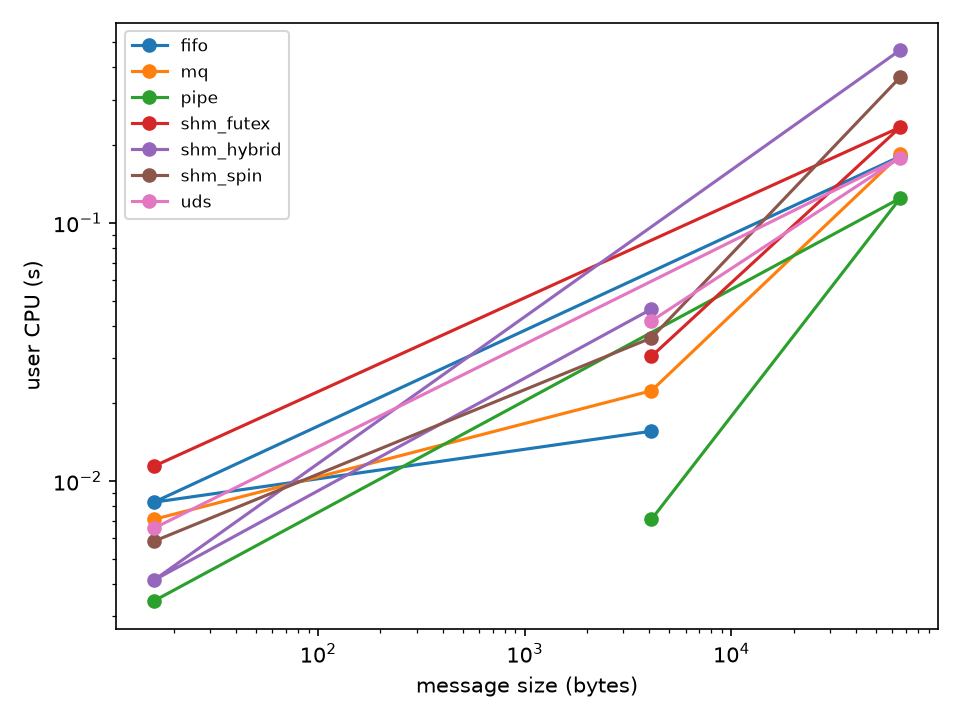
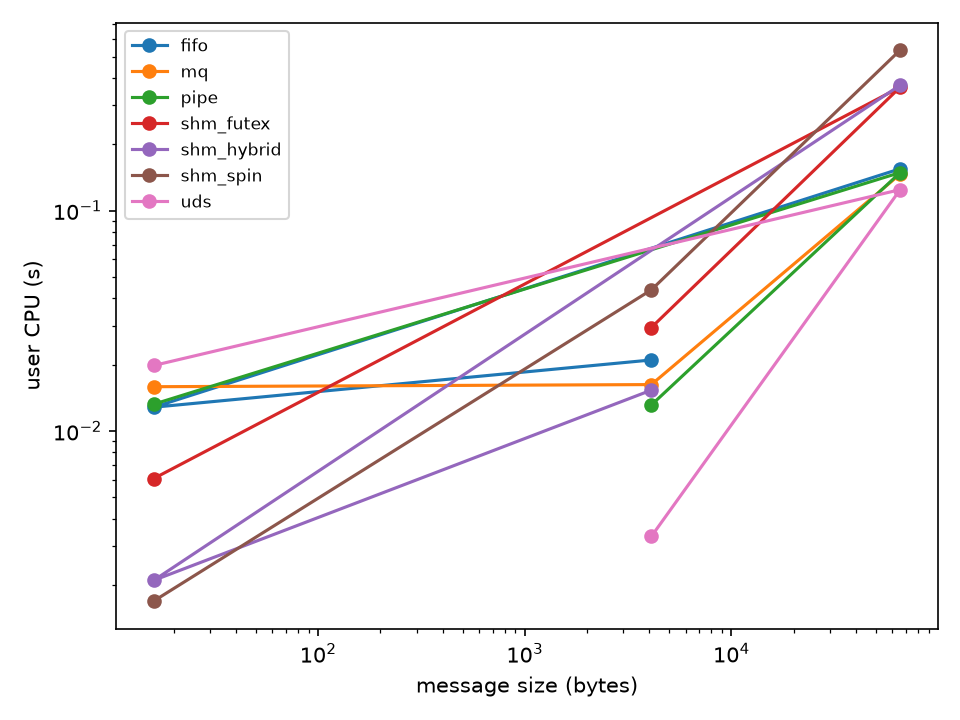
test: refresh quick analysis artifacts

diff --git a/results/summary.md b/results/summary.md
@@ -4,45 +4,45 @@ Generated from the supplied results CSV.
 
 | mech | mode | size_bytes | timestamp | iters | warmup | run_id | chunked | mean_ns | p50_ns | p90_ns | p99_ns | p999_ns | min_ns | max_ns | stddev_ns | msgs_per_s | mb_per_s | wall_s | cpu_user_s | cpu_sys_s | cpu_pct | vol_ctx | invol_ctx | ctx_per_msg |
 |---|---|---|---|---|---|---|---|---|---|---|---|---|---|---|---|---|---|---|---|---|---|---|---|---|
-| fifo | pingpong | 16 | 1791778710.0 | 4000.0 | 400.0 | 6.0 | 0.0 | 69273.4 | 59163.5 | 90067.7 | 179687.0 | 918276.0 | 7114.0 | 2929929.0 | 77204.3 | 13202.9 | 0.20146 | 0.302965 | 0.008279 | 0.255803 | 87.1659 | 8737.0 | 2.0 | 2.18425 |
-| fifo | pingpong | 4096 | 1791778715.0 | 4000.0 | 400.0 | 30.0 | 0.0 | 69712.6 | 60047.5 | 89157.6 | 164506.0 | 1232350.0 | 11503.0 | 2147703.0 | 61463.8 | 12535.8 | 48.968 | 0.319086 | 0.015602 | 0.269546 | 89.3641 | 8748.0 | 0.0 | 2.187 |
-| fifo | pingpong | 65536 | 1791778709.0 | 4000.0 | 400.0 | 3.0 | 0.0 | 149207.0 | 123208.0 | 172150.0 | 709098.0 | 3501800.0 | 67133.0 | 4497324.0 | 212918.0 | 4885.96 | 305.372 | 0.818672 | 0.180914 | 0.592212 | 94.4365 | 8780.0 | 0.0 | 2.195 |
-| fifo | stream | 16 | 1791778711.0 | 40000.0 | 4000.0 | 13.0 | 0.0 | nan | nan | nan | nan | nan | nan | nan | nan | 2284930.0 | 34.8653 | 0.017506 | 0.016667 | 0.017749 | 196.595 | 66.0 | 1.0 | 0.00165 |
-| fifo | stream | 4096 | 1791778713.0 | 13107.0 | 1310.0 | 22.0 | 0.0 | nan | nan | nan | nan | nan | nan | nan | nan | 74981.4 | 292.896 | 0.174803 | 0.055356 | 0.218629 | 156.739 | 3496.0 | 2.0 | 0.266728 |
-| fifo | stream | 65536 | 1791778709.0 | 819.0 | 81.0 | 4.0 | 0.0 | nan | nan | nan | nan | nan | nan | nan | nan | 9474.61 | 592.163 | 0.0864416 | 0.03317 | 0.080426 | 131.414 | 819.0 | 0.0 | 1.0 |
-| mq | pingpong | 16 | 1791778711.0 | 4000.0 | 400.0 | 12.0 | 0.0 | 61637.4 | 53076.0 | 78578.7 | 131709.0 | 653956.0 | 10021.0 | 1840333.0 | 49043.8 | 14952.7 | 0.228161 | 0.26751 | 0.007105 | 0.216601 | 83.6254 | 8734.0 | 1.0 | 2.1835 |
-| mq | pingpong | 4096 | 1791778713.0 | 4000.0 | 400.0 | 21.0 | 0.0 | 69544.9 | 62049.0 | 88039.0 | 150218.0 | 556245.0 | 32764.0 | 4134211.0 | 73123.1 | 12758.4 | 49.8376 | 0.313518 | 0.022376 | 0.250415 | 87.0096 | 8711.0 | 1.0 | 2.17775 |
-| mq | pingpong | 65536 | 1791778716.0 | 4000.0 | 400.0 | 34.0 | 1.0 | 96031.4 | 85472.5 | 126975.0 | 209627.0 | 554458.0 | 61947.0 | 1185169.0 | 40025.3 | 6908.09 | 431.756 | 0.579031 | 0.184167 | 0.462172 | 111.624 | 9003.0 | 1.0 | 2.25075 |
-| mq | stream | 16 | 1791778711.0 | 40000.0 | 4000.0 | 11.0 | 0.0 | nan | nan | nan | nan | nan | nan | nan | nan | 621528.0 | 9.48377 | 0.0643575 | 0.0 | 0.101488 | 157.694 | 1000.0 | 0.0 | 0.025 |
-| mq | stream | 4096 | 1791778707.0 | 13107.0 | 1310.0 | 2.0 | 0.0 | nan | nan | nan | nan | nan | nan | nan | nan | 147408.0 | 575.812 | 0.0889165 | 0.025624 | 0.102817 | 144.451 | 3645.0 | 0.0 | 0.278096 |
-| mq | stream | 65536 | 1791778715.0 | 819.0 | 81.0 | 29.0 | 1.0 | nan | nan | nan | nan | nan | nan | nan | nan | 8333.66 | 520.854 | 0.0982761 | 0.038189 | 0.086715 | 127.095 | 1090.0 | 1.0 | 1.33089 |
-| pipe | pingpong | 16 | 1791778717.0 | 4000.0 | 400.0 | 41.0 | 0.0 | 52934.9 | 47865.0 | 67608.4 | 104503.0 | 296013.0 | 8939.0 | 966716.0 | 22622.7 | 17237.6 | 0.263024 | 0.232051 | 0.003431 | 0.196773 | 86.2757 | 8765.0 | 3.0 | 2.19125 |
-| pipe | pingpong | 4096 | 1791778710.0 | 4000.0 | 400.0 | 9.0 | 0.0 | 62384.0 | 51240.0 | 79011.4 | 155030.0 | 1115890.0 | 26776.0 | 2331702.0 | 68321.0 | 14276.9 | 55.769 | 0.280173 | 0.007101 | 0.236849 | 87.0711 | 8761.0 | 0.0 | 2.19025 |
-| pipe | pingpong | 65536 | 1791778717.0 | 4000.0 | 400.0 | 38.0 | 0.0 | 93915.7 | 85236.5 | 118967.0 | 187091.0 | 564077.0 | 55700.0 | 1404729.0 | 41172.2 | 7202.33 | 450.146 | 0.555376 | 0.124592 | 0.394096 | 93.394 | 8786.0 | 0.0 | 2.1965 |
-| pipe | stream | 16 | 1791778717.0 | 40000.0 | 4000.0 | 40.0 | 0.0 | nan | nan | nan | nan | nan | nan | nan | nan | 2799800.0 | 42.7215 | 0.0142867 | 0.009588 | 0.019306 | 202.244 | 2.0 | 0.0 | 5e-05 |
-| pipe | stream | 4096 | 1791778716.0 | 13107.0 | 1310.0 | 35.0 | 0.0 | nan | nan | nan | nan | nan | nan | nan | nan | 205007.0 | 800.81 | 0.0639343 | 0.021437 | 0.07217 | 146.411 | 3375.0 | 1.0 | 0.257496 |
-| pipe | stream | 65536 | 1791778715.0 | 819.0 | 81.0 | 31.0 | 0.0 | nan | nan | nan | nan | nan | nan | nan | nan | 10241.8 | 640.113 | 0.0799664 | 0.040139 | 0.063296 | 129.348 | 796.0 | 0.0 | 0.971917 |
-| shm_futex | pingpong | 16 | 1791778710.0 | 4000.0 | 400.0 | 7.0 | 0.0 | 58804.6 | 51014.5 | 78794.9 | 126575.0 | 247448.0 | 625.0 | 1747975.0 | 32957.5 | 15494.4 | 0.236425 | 0.258158 | 0.011412 | 0.208284 | 85.1013 | 8693.0 | 1.0 | 2.17325 |
-| shm_futex | pingpong | 4096 | 1791778713.0 | 4000.0 | 400.0 | 20.0 | 0.0 | 59224.5 | 51970.5 | 77111.5 | 119976.0 | 310842.0 | 6912.0 | 1159785.0 | 28938.1 | 14849.5 | 58.0058 | 0.26937 | 0.030405 | 0.202528 | 86.4733 | 8711.0 | 1.0 | 2.17775 |
-| shm_futex | pingpong | 65536 | 1791778712.0 | 4000.0 | 400.0 | 17.0 | 0.0 | 88107.4 | 77001.0 | 114108.0 | 205317.0 | 1355040.0 | 41501.0 | 2563255.0 | 76810.0 | 7634.12 | 477.133 | 0.523963 | 0.234706 | 0.245225 | 91.5963 | 8737.0 | 0.0 | 2.18425 |
-| shm_futex | stream | 16 | 1791778716.0 | 40000.0 | 4000.0 | 36.0 | 0.0 | nan | nan | nan | nan | nan | nan | nan | nan | 2631840.0 | 40.1587 | 0.0151985 | 0.016839 | 0.00713 | 157.706 | 84.0 | 0.0 | 0.0021 |
-| shm_futex | stream | 4096 | 1791778712.0 | 13107.0 | 1310.0 | 18.0 | 0.0 | nan | nan | nan | nan | nan | nan | nan | nan | 180212.0 | 703.952 | 0.0727311 | 0.032367 | 0.066402 | 135.8 | 4112.0 | 0.0 | 0.313725 |
-| shm_futex | stream | 65536 | 1791778716.0 | 819.0 | 81.0 | 37.0 | 0.0 | nan | nan | nan | nan | nan | nan | nan | nan | 16560.6 | 1035.04 | 0.0494547 | 0.028289 | 0.030236 | 118.341 | 849.0 | 0.0 | 1.03663 |
-| shm_hybrid | pingpong | 16 | 1791778710.0 | 4000.0 | 400.0 | 8.0 | 0.0 | 418.599 | 374.0 | 423.0 | 473.0 | 7555.91 | 291.0 | 90361.0 | 1565.34 | 1955560.0 | 29.8395 | 0.00204545 | 0.004127 | 0.0 | 201.765 | 0.0 | 1.0 | 0.0 |
-| shm_hybrid | pingpong | 4096 | 1791778715.0 | 4000.0 | 400.0 | 26.0 | 0.0 | 2593.11 | 2084.0 | 2253.0 | 7625.52 | 68815.2 | 423.0 | 617402.0 | 11092.1 | 173294.0 | 676.931 | 0.0230821 | 0.046337 | 0.0 | 200.748 | 2.0 | 1.0 | 0.0005 |
-| shm_hybrid | pingpong | 65536 | 1791778709.0 | 4000.0 | 400.0 | 5.0 | 0.0 | 24616.5 | 18678.5 | 21299.6 | 203006.0 | 907342.0 | 7361.0 | 1843683.0 | 72809.1 | 16241.0 | 1015.06 | 0.24629 | 0.467222 | 0.008039 | 192.968 | 73.0 | 2.0 | 0.01825 |
-| shm_hybrid | stream | 16 | 1791778716.0 | 40000.0 | 4000.0 | 32.0 | 0.0 | nan | nan | nan | nan | nan | nan | nan | nan | 4704550.0 | 71.7857 | 0.00850241 | 0.016156 | 0.001204 | 204.177 | 1.0 | 0.0 | 2.5e-05 |
-| shm_hybrid | stream | 4096 | 1791778717.0 | 13107.0 | 1310.0 | 39.0 | 0.0 | nan | nan | nan | nan | nan | nan | nan | nan | 541013.0 | 2113.33 | 0.0242268 | 0.044933 | 0.004521 | 204.13 | 1.0 | 0.0 | 7.62951e-05 |
-| shm_hybrid | stream | 65536 | 1791778711.0 | 819.0 | 81.0 | 10.0 | 0.0 | nan | nan | nan | nan | nan | nan | nan | nan | 31941.0 | 1996.31 | 0.025641 | 0.05093 | 0.001579 | 204.785 | 1.0 | 3.0 | 0.001221 |
-| shm_spin | pingpong | 16 | 1791778707.0 | 4000.0 | 400.0 | 1.0 | 0.0 | 605.899 | 562.0 | 644.0 | 816.04 | 16439.0 | 369.0 | 36134.0 | 911.578 | 1400120.0 | 21.3641 | 0.0028569 | 0.005843 | 0.0 | 204.523 | 0.0 | 0.0 | 0.0 |
-| shm_spin | pingpong | 4096 | 1791778716.0 | 4000.0 | 400.0 | 33.0 | 0.0 | 1553.55 | 998.5 | 2232.1 | 3300.38 | 57311.7 | 403.0 | 123833.0 | 3820.64 | 224603.0 | 877.357 | 0.0178092 | 0.035851 | 0.000526 | 204.26 | 0.0 | 0.0 | 0.0 |
-| shm_spin | pingpong | 65536 | 1791778718.0 | 4000.0 | 400.0 | 42.0 | 0.0 | 17611.4 | 16731.0 | 18748.0 | 40121.4 | 219402.0 | 6456.0 | 415708.0 | 13344.8 | 22158.8 | 1384.93 | 0.180515 | 0.366702 | 0.00186 | 204.173 | 0.0 | 3.0 | 0.0 |
-| shm_spin | stream | 16 | 1791778714.0 | 40000.0 | 4000.0 | 24.0 | 0.0 | nan | nan | nan | nan | nan | nan | nan | nan | 5882650.0 | 89.7621 | 0.00679966 | 0.011644 | 0.002183 | 203.348 | 1.0 | 0.0 | 2.5e-05 |
-| shm_spin | stream | 4096 | 1791778715.0 | 13107.0 | 1310.0 | 28.0 | 0.0 | nan | nan | nan | nan | nan | nan | nan | nan | 288648.0 | 1127.53 | 0.0454083 | 0.092213 | 0.0 | 203.075 | 1.0 | 1.0 | 7.62951e-05 |
-| shm_spin | stream | 65536 | 1791778715.0 | 819.0 | 81.0 | 27.0 | 0.0 | nan | nan | nan | nan | nan | nan | nan | nan | 10868.7 | 679.295 | 0.0753539 | 0.153244 | 0.000792 | 204.417 | 1.0 | 0.0 | 0.001221 |
-| uds | pingpong | 16 | 1791778711.0 | 4000.0 | 400.0 | 14.0 | 0.0 | 50980.4 | 48466.0 | 71241.4 | 153654.0 | 1136090.0 | 7570.0 | 4697082.0 | 95047.3 | 17841.5 | 0.272239 | 0.224197 | 0.006561 | 0.230085 | 105.553 | 9316.0 | 0.0 | 2.329 |
-| uds | pingpong | 4096 | 1791778715.0 | 4000.0 | 400.0 | 25.0 | 0.0 | 58082.7 | 50232.5 | 89722.2 | 191638.0 | 859022.0 | 8883.0 | 3596441.0 | 76231.9 | 15035.9 | 58.734 | 0.26603 | 0.041696 | 0.241626 | 106.5 | 11424.0 | 0.0 | 2.856 |
-| uds | pingpong | 65536 | 1791778714.0 | 4000.0 | 400.0 | 23.0 | 0.0 | 179790.0 | 129648.0 | 200569.0 | 1143220.0 | 6078270.0 | 63894.0 | 14549860.0 | 448816.0 | 4241.95 | 265.122 | 0.942962 | 0.178839 | 0.822732 | 106.215 | 17897.0 | 0.0 | 4.47425 |
-| uds | stream | 16 | 1791778711.0 | 40000.0 | 4000.0 | 16.0 | 0.0 | nan | nan | nan | nan | nan | nan | nan | nan | 684864.0 | 10.4502 | 0.0584058 | 0.013086 | 0.102737 | 198.308 | 112.0 | 0.0 | 0.0028 |
-| uds | stream | 4096 | 1791778711.0 | 13107.0 | 1310.0 | 15.0 | 0.0 | nan | nan | nan | nan | nan | nan | nan | nan | 158850.0 | 620.508 | 0.0825118 | 0.038284 | 0.092304 | 158.266 | 2944.0 | 0.0 | 0.224613 |
-| uds | stream | 65536 | 1791778712.0 | 819.0 | 81.0 | 19.0 | 0.0 | nan | nan | nan | nan | nan | nan | nan | nan | 12473.1 | 779.571 | 0.0656611 | 0.021858 | 0.061635 | 127.158 | 870.0 | 0.0 | 1.06227 |
+| fifo | pingpong | 16 | 1791779729.0 | 4000.0 | 400.0 | 6.0 | 0.0 | 58527.6 | 53923.0 | 73275.3 | 113007.0 | 234987.0 | 8347.0 | 329975.0 | 15727.1 | 15542.8 | 0.237165 | 0.257354 | 0.012817 | 0.210484 | 86.7681 | 8756.0 | 0.0 | 2.189 |
+| fifo | pingpong | 4096 | 1791779748.0 | 4000.0 | 400.0 | 30.0 | 0.0 | 108501.0 | 82824.0 | 124556.0 | 567780.0 | 2632180.0 | 11359.0 | 6983000.0 | 195739.0 | 8149.22 | 31.8329 | 0.490845 | 0.020997 | 0.411727 | 88.159 | 8723.0 | 1.0 | 2.18075 |
+| fifo | pingpong | 65536 | 1791779728.0 | 4000.0 | 400.0 | 3.0 | 0.0 | 96052.1 | 87858.5 | 122169.0 | 174006.0 | 258855.0 | 68725.0 | 337460.0 | 20850.2 | 7368.22 | 460.514 | 0.542872 | 0.154752 | 0.356058 | 94.094 | 8786.0 | 1.0 | 2.1965 |
+| fifo | stream | 16 | 1791779735.0 | 40000.0 | 4000.0 | 13.0 | 0.0 | nan | nan | nan | nan | nan | nan | nan | nan | 1232730.0 | 18.8099 | 0.0324484 | 0.01251 | 0.050671 | 194.712 | 6.0 | 0.0 | 0.00015 |
+| fifo | stream | 4096 | 1791779744.0 | 13107.0 | 1310.0 | 22.0 | 0.0 | nan | nan | nan | nan | nan | nan | nan | nan | 224535.0 | 877.09 | 0.058374 | 0.037986 | 0.052702 | 155.357 | 4221.0 | 1.0 | 0.322042 |
+| fifo | stream | 65536 | 1791779728.0 | 819.0 | 81.0 | 4.0 | 0.0 | nan | nan | nan | nan | nan | nan | nan | nan | 11080.4 | 692.523 | 0.0739145 | 0.039289 | 0.051423 | 122.726 | 915.0 | 1.0 | 1.11722 |
+| mq | pingpong | 16 | 1791779734.0 | 4000.0 | 400.0 | 12.0 | 0.0 | 81111.8 | 75244.5 | 104428.0 | 150084.0 | 386275.0 | 10696.0 | 1984998.0 | 38107.3 | 11329.2 | 0.172869 | 0.353071 | 0.015878 | 0.280393 | 83.9125 | 8692.0 | 1.0 | 2.173 |
+| mq | pingpong | 4096 | 1791779743.0 | 4000.0 | 400.0 | 21.0 | 0.0 | 72331.4 | 65689.0 | 94102.9 | 138320.0 | 209816.0 | 38435.0 | 233537.0 | 17546.8 | 12113.6 | 47.3187 | 0.330208 | 0.016235 | 0.275975 | 88.4928 | 8734.0 | 1.0 | 2.1835 |
+| mq | pingpong | 65536 | 1791779751.0 | 4000.0 | 400.0 | 34.0 | 1.0 | 90770.4 | 80122.5 | 121134.0 | 179058.0 | 262729.0 | 51659.0 | 290057.0 | 23379.9 | 7876.19 | 492.262 | 0.50786 | 0.146331 | 0.421166 | 111.743 | 8926.0 | 1.0 | 2.2315 |
+| mq | stream | 16 | 1791779732.0 | 40000.0 | 4000.0 | 11.0 | 0.0 | nan | nan | nan | nan | nan | nan | nan | nan | 444358.0 | 6.78036 | 0.0900175 | 0.004244 | 0.136269 | 156.095 | 1255.0 | 1.0 | 0.031375 |
+| mq | stream | 4096 | 1791779727.0 | 13107.0 | 1310.0 | 2.0 | 0.0 | nan | nan | nan | nan | nan | nan | nan | nan | 192997.0 | 753.894 | 0.067913 | 0.024832 | 0.073267 | 144.448 | 3751.0 | 0.0 | 0.286183 |
+| mq | stream | 65536 | 1791779747.0 | 819.0 | 81.0 | 29.0 | 1.0 | nan | nan | nan | nan | nan | nan | nan | nan | 11434.7 | 714.667 | 0.0716243 | 0.036831 | 0.051647 | 123.531 | 922.0 | 1.0 | 1.12576 |
+| pipe | pingpong | 16 | 1791779754.0 | 4000.0 | 400.0 | 41.0 | 0.0 | 88327.0 | 79111.5 | 111523.0 | 249375.0 | 1049170.0 | 7662.0 | 1672778.0 | 56860.7 | 10275.2 | 0.156787 | 0.389287 | 0.013229 | 0.333934 | 89.1792 | 8704.0 | 1.0 | 2.176 |
+| pipe | pingpong | 4096 | 1791779731.0 | 4000.0 | 400.0 | 9.0 | 0.0 | 65575.0 | 60027.5 | 83286.0 | 117708.0 | 168760.0 | 16251.0 | 249046.0 | 14691.9 | 13456.9 | 52.5662 | 0.297244 | 0.013119 | 0.242267 | 85.9179 | 8748.0 | 0.0 | 2.187 |
+| pipe | pingpong | 65536 | 1791779753.0 | 4000.0 | 400.0 | 38.0 | 0.0 | 94790.4 | 86974.5 | 120539.0 | 172143.0 | 230715.0 | 60177.0 | 360194.0 | 20439.7 | 7060.81 | 441.3 | 0.566507 | 0.148785 | 0.386424 | 94.4752 | 8787.0 | 2.0 | 2.19675 |
+| pipe | stream | 16 | 1791779754.0 | 40000.0 | 4000.0 | 40.0 | 0.0 | nan | nan | nan | nan | nan | nan | nan | nan | 1738520.0 | 26.5276 | 0.0230081 | 0.0 | 0.045424 | 197.426 | 69.0 | 2.0 | 0.001725 |
+| pipe | stream | 4096 | 1791779751.0 | 13107.0 | 1310.0 | 35.0 | 0.0 | nan | nan | nan | nan | nan | nan | nan | nan | 250260.0 | 977.58 | 0.0523734 | 0.029146 | 0.052112 | 155.151 | 4549.0 | 0.0 | 0.347066 |
+| pipe | stream | 65536 | 1791779749.0 | 819.0 | 81.0 | 31.0 | 0.0 | nan | nan | nan | nan | nan | nan | nan | nan | 10414.0 | 650.876 | 0.0786441 | 0.0276 | 0.078081 | 134.379 | 787.0 | 2.0 | 0.960928 |
+| shm_futex | pingpong | 16 | 1791779730.0 | 4000.0 | 400.0 | 7.0 | 0.0 | 53998.8 | 49729.0 | 67677.7 | 102168.0 | 146821.0 | 1245.0 | 198369.0 | 12013.8 | 16803.3 | 0.256398 | 0.238049 | 0.006085 | 0.197288 | 85.4334 | 8735.0 | 2.0 | 2.18375 |
+| shm_futex | pingpong | 4096 | 1791779742.0 | 4000.0 | 400.0 | 20.0 | 0.0 | 72679.6 | 66835.5 | 95208.3 | 136752.0 | 235552.0 | 5538.0 | 322406.0 | 18872.4 | 12169.2 | 47.5358 | 0.3287 | 0.029473 | 0.262477 | 88.8197 | 8697.0 | 1.0 | 2.17425 |
+| shm_futex | pingpong | 65536 | 1791779740.0 | 4000.0 | 400.0 | 17.0 | 0.0 | 108939.0 | 102506.0 | 141297.0 | 211829.0 | 452292.0 | 51416.0 | 1204577.0 | 38828.1 | 5967.13 | 372.945 | 0.67034 | 0.363036 | 0.268017 | 94.1393 | 8720.0 | 1.0 | 2.18 |
+| shm_futex | stream | 16 | 1791779752.0 | 40000.0 | 4000.0 | 36.0 | 0.0 | nan | nan | nan | nan | nan | nan | nan | nan | 5375700.0 | 82.0266 | 0.00744089 | 0.011854 | 0.002797 | 196.898 | 43.0 | 0.0 | 0.001075 |
+| shm_futex | stream | 4096 | 1791779741.0 | 13107.0 | 1310.0 | 18.0 | 0.0 | nan | nan | nan | nan | nan | nan | nan | nan | 187779.0 | 733.512 | 0.0698001 | 0.056854 | 0.042686 | 142.607 | 4211.0 | 1.0 | 0.321279 |
+| shm_futex | stream | 65536 | 1791779752.0 | 819.0 | 81.0 | 37.0 | 0.0 | nan | nan | nan | nan | nan | nan | nan | nan | 17580.0 | 1098.75 | 0.0465872 | 0.03503 | 0.02018 | 118.509 | 685.0 | 1.0 | 0.836386 |
+| shm_hybrid | pingpong | 16 | 1791779730.0 | 4000.0 | 400.0 | 8.0 | 0.0 | 418.451 | 407.0 | 455.0 | 490.0 | 1822.43 | 309.0 | 19738.0 | 401.875 | 1804140.0 | 27.529 | 0.00221712 | 0.0021 | 0.002162 | 192.231 | 1.0 | 0.0 | 0.00025 |
+| shm_hybrid | pingpong | 4096 | 1791779746.0 | 4000.0 | 400.0 | 26.0 | 0.0 | 431.187 | 403.0 | 416.0 | 526.0 | 10647.1 | 349.0 | 19820.0 | 545.973 | 455764.0 | 1780.33 | 0.00877648 | 0.015317 | 0.002942 | 208.045 | 0.0 | 1.0 | 0.0 |
+| shm_hybrid | pingpong | 65536 | 1791779729.0 | 4000.0 | 400.0 | 5.0 | 0.0 | 16634.4 | 17570.5 | 19601.4 | 34238.8 | 115586.0 | 7102.0 | 329526.0 | 8460.1 | 21922.8 | 1370.17 | 0.182459 | 0.370527 | 0.00203 | 204.187 | 2.0 | 3.0 | 0.0005 |
+| shm_hybrid | stream | 16 | 1791779749.0 | 40000.0 | 4000.0 | 32.0 | 0.0 | nan | nan | nan | nan | nan | nan | nan | nan | 4933640.0 | 75.2813 | 0.00810761 | 0.016235 | 0.0 | 200.244 | 1.0 | 1.0 | 2.5e-05 |
+| shm_hybrid | stream | 4096 | 1791779753.0 | 13107.0 | 1310.0 | 39.0 | 0.0 | nan | nan | nan | nan | nan | nan | nan | nan | 494641.0 | 1932.19 | 0.026498 | 0.054023 | 0.0 | 203.876 | 1.0 | 2.0 | 7.62951e-05 |
+| shm_hybrid | stream | 65536 | 1791779731.0 | 819.0 | 81.0 | 10.0 | 0.0 | nan | nan | nan | nan | nan | nan | nan | nan | 22381.8 | 1398.86 | 0.0365922 | 0.07236 | 0.0 | 197.747 | 4.0 | 3.0 | 0.004884 |
+| shm_spin | pingpong | 16 | 1791779726.0 | 4000.0 | 400.0 | 1.0 | 0.0 | 142.191 | 128.0 | 202.0 | 231.0 | 542.014 | 118.0 | 6489.0 | 108.906 | 4708510.0 | 71.8461 | 0.000849526 | 0.001692 | 0.0 | 199.17 | 0.0 | 0.0 | 0.0 |
+| shm_spin | pingpong | 4096 | 1791779750.0 | 4000.0 | 400.0 | 33.0 | 0.0 | 2483.78 | 2163.0 | 2347.1 | 4569.23 | 65695.1 | 1959.0 | 190854.0 | 4542.19 | 171455.0 | 669.746 | 0.0233297 | 0.043675 | 0.003989 | 204.306 | 0.0 | 1.0 | 0.0 |
+| shm_spin | pingpong | 65536 | 1791779755.0 | 4000.0 | 400.0 | 42.0 | 0.0 | 22730.3 | 22552.0 | 26975.4 | 72589.1 | 233864.0 | 8621.0 | 1025265.0 | 21803.7 | 15295.3 | 955.959 | 0.261518 | 0.534954 | 0.000708 | 204.828 | 0.0 | 4.0 | 0.0 |
+| shm_spin | stream | 16 | 1791779745.0 | 40000.0 | 4000.0 | 24.0 | 0.0 | nan | nan | nan | nan | nan | nan | nan | nan | 6803030.0 | 103.806 | 0.00587973 | 0.012088 | 0.0 | 205.587 | 1.0 | 0.0 | 2.5e-05 |
+| shm_spin | stream | 4096 | 1791779746.0 | 13107.0 | 1310.0 | 28.0 | 0.0 | nan | nan | nan | nan | nan | nan | nan | nan | 521139.0 | 2035.7 | 0.0251507 | 0.049105 | 0.001858 | 202.631 | 1.0 | 2.0 | 7.62951e-05 |
+| shm_spin | stream | 65536 | 1791779746.0 | 819.0 | 81.0 | 27.0 | 0.0 | nan | nan | nan | nan | nan | nan | nan | nan | 32132.0 | 2008.25 | 0.0254886 | 0.052082 | 0.0 | 204.334 | 1.0 | 2.0 | 0.001221 |
+| uds | pingpong | 16 | 1791779736.0 | 4000.0 | 400.0 | 14.0 | 0.0 | 79455.7 | 53355.0 | 117287.0 | 490412.0 | 3419110.0 | 8588.0 | 4919122.0 | 187646.0 | 11501.6 | 0.1755 | 0.347779 | 0.019822 | 0.328386 | 100.123 | 10043.0 | 1.0 | 2.51075 |
+| uds | pingpong | 4096 | 1791779745.0 | 4000.0 | 400.0 | 25.0 | 0.0 | 48943.0 | 48569.5 | 74011.6 | 122996.0 | 190982.0 | 9032.0 | 224686.0 | 22339.6 | 17732.0 | 69.2656 | 0.225581 | 0.003324 | 0.237336 | 106.685 | 10641.0 | 1.0 | 2.66025 |
+| uds | pingpong | 65536 | 1791779745.0 | 4000.0 | 400.0 | 23.0 | 0.0 | 102687.0 | 99590.0 | 128982.0 | 185155.0 | 243815.0 | 52696.0 | 291907.0 | 23031.8 | 7134.8 | 445.925 | 0.560633 | 0.124469 | 0.498363 | 111.094 | 17437.0 | 2.0 | 4.35925 |
+| uds | stream | 16 | 1791779739.0 | 40000.0 | 4000.0 | 16.0 | 0.0 | nan | nan | nan | nan | nan | nan | nan | nan | 409290.0 | 6.24527 | 0.0977302 | 0.015606 | 0.172734 | 192.714 | 439.0 | 1.0 | 0.010975 |
+| uds | stream | 4096 | 1791779737.0 | 13107.0 | 1310.0 | 15.0 | 0.0 | nan | nan | nan | nan | nan | nan | nan | nan | 92079.7 | 359.686 | 0.142344 | 0.047992 | 0.172825 | 155.129 | 3231.0 | 3.0 | 0.246509 |
+| uds | stream | 65536 | 1791779741.0 | 819.0 | 81.0 | 19.0 | 0.0 | nan | nan | nan | nan | nan | nan | nan | nan | 8909.47 | 556.842 | 0.0919247 | 0.049418 | 0.071769 | 131.833 | 842.0 | 1.0 | 1.02808 |
